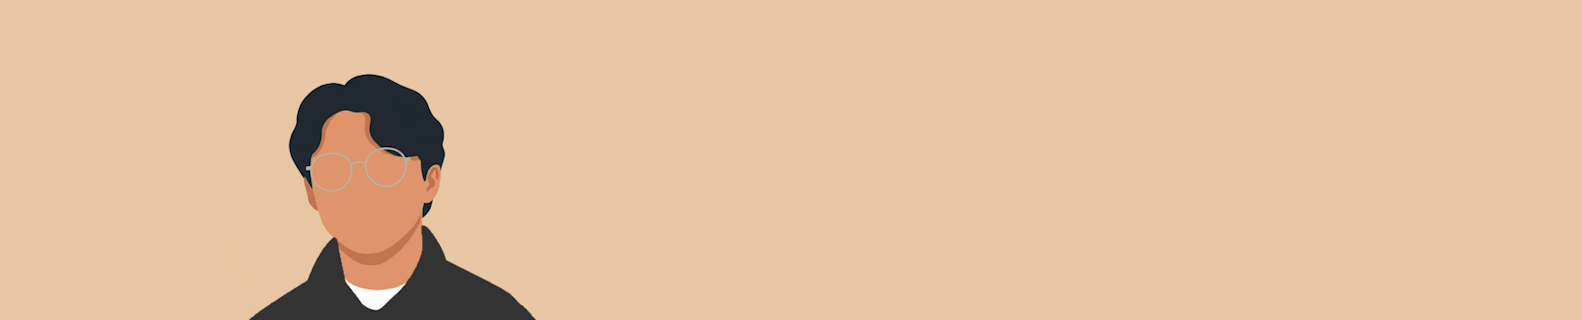
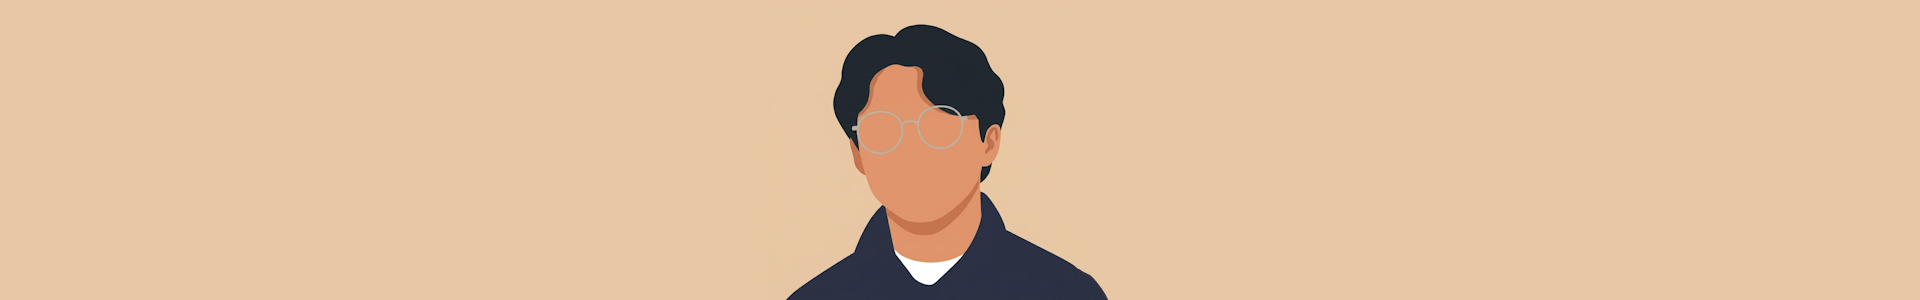
Update styles and media for dark mode

Changed region(s): [[0.4027, 0.06, 0.5885, 1.0], [0.1549, 0.21, 0.3407, 1.0]]

diff --git a/styles.css b/styles.css
@@ -7,23 +7,23 @@
         padding: 0;
     }
     :root {
-        --bg: #f5f4f0;
-        --surface: #ffffff;
-        --surface-2: #eeede8;
-        --border: rgba(0, 0, 0, 0.08);
-        --border-strong: rgba(0, 0, 0, 0.15);
-        --text-primary: #1a1917;
-        --text-secondary: #6b6963;
-        --text-hint: #a09d97;
-        --accent: #1a1917;
-        --accent-bg: #1a1917;
+        --bg: #0f0f0f;
+        --surface: #1a1a1a;
+        --surface-2: #2a2a2a;
+        --border: rgba(255, 255, 255, 0.08);
+        --border-strong: rgba(255, 255, 255, 0.15);
+        --text-primary: #f5f4f0;
+        --text-secondary: #b0b0b0;
+        --text-hint: #707070;
+        --accent: #f5f4f0;
+        --accent-bg: #404040;
         --accent-text: #f5f4f0;
-        --green: #2d6a4f;
-        --green-bg: #d8f3dc;
-        --blue: #1d4e89;
-        --blue-bg: #dbeafe;
-        --amber: #92400e;
-        --amber-bg: #fef3c7;
+        --green: #4ade80;
+        --green-bg: #1e3a1f;
+        --blue: #60a5fa;
+        --blue-bg: #1e3a5f;
+        --amber: #fbbf24;
+        --amber-bg: #3a2f1f;
         --radius-sm: 6px;
         --radius-md: 10px;
         --radius-lg: 16px;
@@ -123,7 +123,7 @@
         position: sticky;
         top: 0;
         z-index: 50;
-        background: rgba(245, 244, 240, 0.85);
+        background: rgba(15, 15, 15, 0.85);
         backdrop-filter: blur(12px);
         -webkit-backdrop-filter: blur(12px);
         border-bottom: 1px solid var(--border);
@@ -183,7 +183,7 @@
     /* Two-column layout */
     .two-col {
         display: flex;
-        
+        gap: 16px;
         /*gap: 16px;*/
     }
     /* Table card */
@@ -398,7 +398,7 @@
     /* ═══════════════════════════════
         MOBILE LAYOUT (< 900px)
      ═══════════════════════════════ */
-    @media (max-width: 800px) {
+    @media (max-width: 820px) {
         /* Hide all desktop structures */
         .sidebar,
         .main-wrap {

diff --git a/About.html b/About.html
@@ -14,8 +14,8 @@
     <body>
         <!-- ================ Sidebar ================ -->
         <aside class="sidebar">
-            <div class="sidebar-brand">
-                <span class="brand-name">Carlos Ruiz - Game Designer</span>
+            <div class="sidebar-title-container">
+                <span class="sidebar-title">Carlos Ruiz - Game Designer</span>
             </div>
             <div class="sidebar-section" style="flex: 1; overflow-y: auto">
                 <div class="sidebar-label">Main Menu</div>

diff --git a/Personal-Work.html b/Personal-Work.html
@@ -13,8 +13,8 @@
     </head>
     <body>
         <aside class="sidebar">
-            <div class="sidebar-brand">
-                <span class="brand-name">Carlos Ruiz - Game Designer</span>
+            <div class="sidebar-title-container">
+                <span class="sidebar-title">Carlos Ruiz - Game Designer</span>
             </div>
             <div class="sidebar-section" style="flex: 1; overflow-y: auto">
                 <div class="sidebar-label">Main Menu</div>

diff --git a/Professional-Work.html b/Professional-Work.html
@@ -13,8 +13,8 @@
     </head>
     <body>
         <aside class="sidebar">
-            <div class="sidebar-brand">
-                <span class="brand-name">Carlos Ruiz - Game Designer</span>
+            <div class="sidebar-title-container">
+                <span class="sidebar-title">Carlos Ruiz - Game Designer</span>
             </div>
             <div class="sidebar-section" style="flex: 1; overflow-y: auto">
                 <div class="sidebar-label">Main Menu</div>
